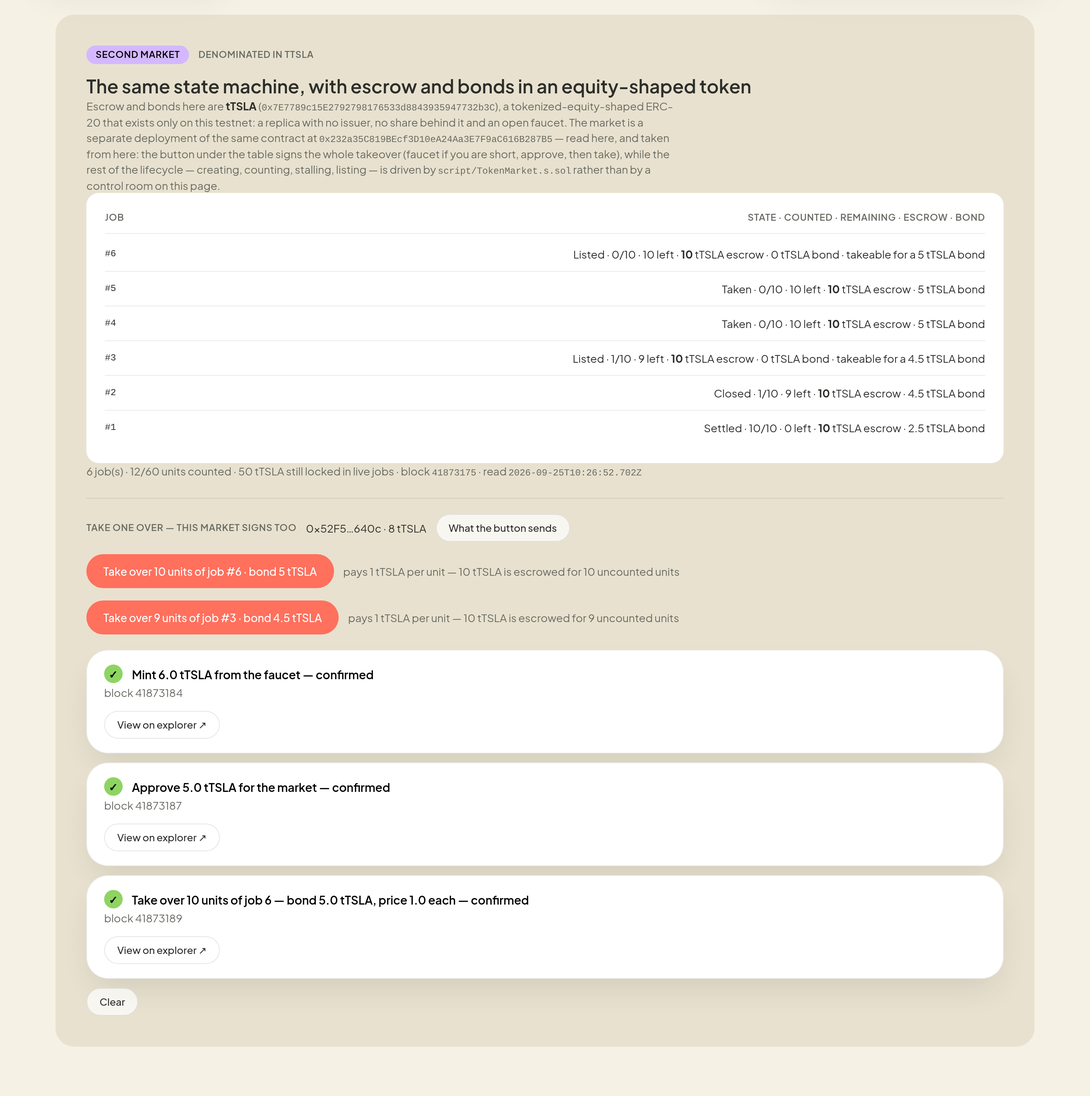
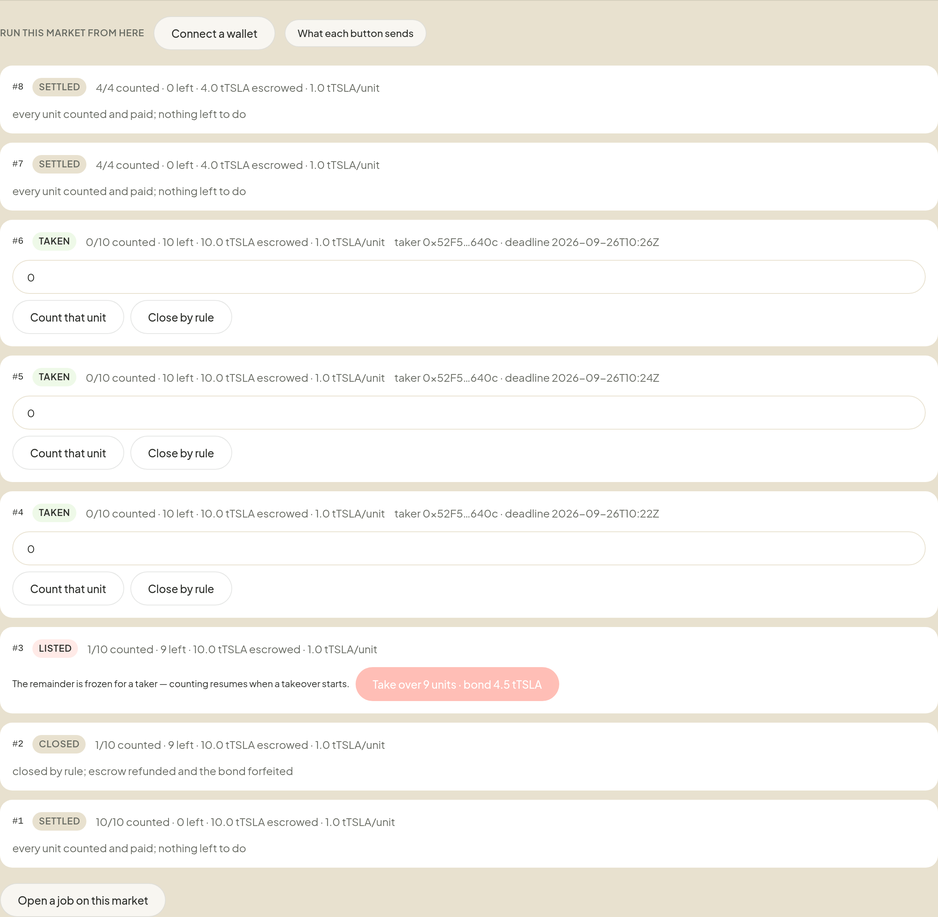
feat(second-market): the whole lifecycle from the page, and every row re-derived
The console for an ERC-20 market no longer stops at the takeover. Open a
job, count a unit against its receipt, declare the stall, list the
remainder, take it over, close one that failed, claim what you are owed —
all of it signed from the page, each call showing its block. Two jobs were
taken from open to settled and claimed that way, and their fourteen hashes
were recovered from the chain (blocks scanned, filtered to the wallet,
ordered by nonce) rather than copied out of a run log.

Four defects the page-drive found, each one a thing a visitor would have
hit:

- the console's log was erased by the server refresh a write triggers, so
  the record of the transaction that caused the refresh disappeared; it now
  lives per market in sessionStorage
- counting was offered on jobs the contract refuses in that state; the
  control now matches the contract exactly (executor while Open, taker once
  Taken) and says in words why it is absent elsewhere
- a read can answer from before the transaction it just confirmed, leaving
  a button the market has moved past; the board is re-read twice after a
  write
- a refusal with no node reason was shown as a parser's complaint; it now
  says what is certain and points at the board

Docs follow the chain, not the previous draft: eight jobs, five takeovers,
two settled and claimed from the page, verify_token.py 45/45, receipts 89
hashes (the fourteen new ones tabulated), and both venue screenshots
re-shot from production.

diff --git a/app/lib/token-venue.js b/app/lib/token-venue.js
@@ -54,18 +54,50 @@ export function useMarketVenue(market) {
   const [asset, setAsset] = useState(null); // { symbol, decimals, balance, allowance }
   const [credits, setCredits] = useState(0n); // what this wallet can claim from this market
   const [busy, setBusy] = useState("");
-  const [steps, setSteps] = useState([]); // the inline lifecycle, in order
+  /* The inline lifecycle. Kept in sessionStorage because a confirmed write refreshes the
+     server-rendered table, and a refresh must not erase the record of what was just signed —
+     the visitor would lose the block numbers they need to check the very transaction that
+     caused the refresh. */
+  const STORE = key ? `spectral.steps.${key}` : "";
+  const [steps, setSteps] = useState([]);
   const nextId = useRef(1);
+
+  useEffect(() => {
+    if (!STORE || typeof window === "undefined") return;
+    try {
+      const saved = JSON.parse(window.sessionStorage.getItem(STORE) || "[]");
+      if (Array.isArray(saved) && saved.length) {
+        setSteps(saved);
+        nextId.current = saved.reduce((a, s) => Math.max(a, s.id || 0), 0) + 1;
+      }
+    } catch { /* a corrupt log is not worth an error banner: start empty */ }
+  }, [STORE]);
+
+  const persist = useCallback((list) => {
+    if (!STORE || typeof window === "undefined") return;
+    try { window.sessionStorage.setItem(STORE, JSON.stringify(list.slice(-25))); } catch { /* full or disabled */ }
+  }, [STORE]);
 
   const step = useCallback((s) => {
     const id = nextId.current++;
-    setSteps((list) => [...list, { id, ...s }]);
+    setSteps((list) => {
+      const next = [...list, { id, ...s }];
+      persist(next);
+      return next;
+    });
     return id;
-  }, []);
+  }, [persist]);
   const patchStep = useCallback((id, p) => {
-    setSteps((list) => list.map((s) => (s.id === id ? { ...s, ...p } : s)));
-  }, []);
-  const clearSteps = useCallback(() => setSteps([]), []);
+    setSteps((list) => {
+      const next = list.map((s) => (s.id === id ? { ...s, ...p } : s));
+      persist(next);
+      return next;
+    });
+  }, [persist]);
+  const clearSteps = useCallback(() => {
+    setSteps([]);
+    if (STORE && typeof window !== "undefined") window.sessionStorage.removeItem(STORE);
+  }, [STORE]);
 
   useEffect(() => {
     fetch("/api/config", { cache: "no-store" })
@@ -198,10 +230,16 @@ export function useMarketVenue(market) {
       patchStep(id, { kind: "ok", label: `${label} — confirmed`, detail: `block ${rc.blockNumber}`, hash: rc.hash });
       return true;
     } catch (e) {
+      const raw = e?.shortMessage || e?.reason || e?.message || String(e);
+      /* Some node answers arrive without a decodable reason. Rather than show the visitor a
+         parser's complaint, say what is certainly true and point at the state that explains it. */
+      const opaque = /missing revert data|invalid BigNumberish|could not decode result data|unknown custom error/i.test(raw);
       patchStep(id, {
         kind: "fail",
         label: `${label} — refused`,
-        detail: e?.shortMessage || e?.reason || e?.message || String(e),
+        detail: opaque
+          ? "the market refused this call and the node returned no reason; the board above shows the job's current state, which is usually why"
+          : raw,
       });
       return false;
     } finally {
@@ -211,6 +249,10 @@ export function useMarketVenue(market) {
       /* The table above the console is server-rendered, so a confirmed write has to ask the
          server for the route again or the row would still read "Listed" after it was taken. */
       router.refresh();
+      /* A node can answer a read from just before the transaction it just confirmed, which would
+         leave a button offering a call the market has already moved past. Reading again a beat
+         later costs nothing and closes that window. */
+      for (const ms of [1500, 4000]) setTimeout(() => { loadBoard(); router.refresh(); }, ms);
     }
   }
 

diff --git a/app/components/TokenConsole.jsx b/app/components/TokenConsole.jsx
@@ -91,7 +91,7 @@ export default function TokenConsole({ market }) {
         {jobs.map((j) => {
           const past = j.state === "Taken" && j.takerDeadline > 0 && nowSec > j.takerDeadline;
           return (
-            <div key={j.id} className="rounded-2xl bg-paper-white p-4">
+            <div key={j.id} data-job={j.id} data-state={j.state} className="rounded-2xl bg-paper-white p-4">
               <div className="flex flex-wrap items-center gap-3">
                 <span className="font-mono text-xs text-ink-charcoal">#{j.id}</span>
                 <span className={`label-caps px-2 py-1 rounded-full ${stateTone[j.state] || "bg-paper-sand"}`}>{j.state}</span>
@@ -107,7 +107,10 @@ export default function TokenConsole({ market }) {
               </div>
 
               <div className="mt-3 flex flex-wrap items-center gap-2">
-                {(j.state === "Open" || j.state === "Stalled") && (
+                {/* Counting is allowed exactly where the contract allows it: the executor while
+                    the job is Open, the taker once it is Taken. Offering it on a stalled or
+                    listed job would be offering a call the market refuses. */}
+                {(j.state === "Open" || j.state === "Taken") && (
                   <>
                     <input
                       className="pc-input small w-[84px]"
@@ -119,6 +122,11 @@ export default function TokenConsole({ market }) {
                       Count that unit
                     </button>
                   </>
+                )}
+                {(j.state === "Stalled" || j.state === "Listed") && (
+                  <span className="text-xs text-ink-charcoal">
+                    The remainder is frozen for a taker — counting resumes when a takeover starts.
+                  </span>
                 )}
                 {j.state === "Open" && (
                   <button className="pc-pill ghost" disabled={!!v.busy} onClick={() => v.declareStalled(j)}>

diff --git a/README.md b/README.md
@@ -42,9 +42,9 @@ There is no `PARTIALLY_DONE_WITH_WARNINGS`. Either the executor counted the unit
 | Seven invalid actions | **REFUSED by the deployed bytecode** | `UnitAlreadyCounted`, `EmptyReceipt`, `UnitOutOfRange`, `NotExecutor`, `NothingToTake`, `AlreadyStalled`, and an arithmetic panic — each with the contract's own reason, in [docs/LIVE-GATES.md](docs/LIVE-GATES.md) |
 | Venue application | **LIVE** | landing at `/`, venue at `/app`; reads six jobs and 21 of 42 counted units off the contract in a browser, anonymous, 0px overflow |
 | Board API, keyless | **LIVE** | `GET /api/board` returns the same six jobs, 21/42 units and 0.01 OKB still locked, read from the contract at request time; `?job=` and `?state=` filter it, `?market=token` reads the second market |
-| Token-denominated market, testnet 1952 | **LIVE** | `0x232a35C819BEcf3D10eA24Aa3E7F9aC616B287B5`, escrow and bonds in `tTSLA`; six jobs and four takeovers on it — one **signed from the venue page** by a wallet holding none of the token — `verify_token.py` **35/35**, receipts and hashes in [docs/TOKEN-MARKET.md](docs/TOKEN-MARKET.md) |
+| Token-denominated market, testnet 1952 | **LIVE** | `0x232a35C819BEcf3D10eA24Aa3E7F9aC616B287B5`, escrow and bonds in `tTSLA`; **eight jobs and five takeovers** on it, every takeover signed from the venue page — one of them by a wallet that held none of the token when it started — and two jobs carried all the way to **settlement and claim** the same way; `verify_token.py` **45/45**, receipts and hashes in [docs/TOKEN-MARKET.md](docs/TOKEN-MARKET.md) |
 | The equity-shaped token it escrows | **LIVE, and a replica** | `0x7E7789c15E2792798176533d8843935947732b3C` — a real ERC-20 deployed on this testnet, open faucet, no issuer and no share behind it; the app calls it a replica everywhere it appears |
-| Two live listings, one per market | **LISTED, takeable by anyone** | native job #6: 10 units at 0.001 OKB, **0.005 OKB bond**, deadline 2026-09-26 10:04 UTC · token job #3: 9 units remaining at 1 tTSLA, **4.5 tTSLA bond**, deadline 2026-09-26 10:05 UTC. `?state=Listed` on either board returns them. Neither listing itself has been taken yet — four other takeovers have been, three of them signed from the page — and taking one is what [Take a live obligation yourself](#take-a-live-obligation-yourself) is for |
+| Two live listings, one per market | **LISTED, takeable by anyone** | native job #6: 10 units at 0.001 OKB, **0.005 OKB bond**, deadline 2026-09-26 10:04 UTC · token job #3: 9 units remaining at 1 tTSLA, **4.5 tTSLA bond**, deadline 2026-09-26 10:05 UTC. `?state=Listed` on either board returns them. Neither listing itself has been taken yet — five other takeovers have been, every one signed from the page — and taking one is what [Take a live obligation yourself](#take-a-live-obligation-yourself) is for |
 | Source verification | **DONE — 3/3 on Sourcify** | all three deployed contracts rebuilt from `src/` and matched: `Spectral` `match` (ID 52236721), `SpectralToken` `exact_match` (ID 52236800), `TestnetEquity` `exact_match` (ID 52236822). `verify_source.py` re-checks it keylessly; [docs/SOURCE-VERIFICATION.md](docs/SOURCE-VERIFICATION.md) has the levels and commands |
 | Source verification on OKX's explorer | **NOT ATTEMPTED** | that route is gated behind a paid plan and no such credential exists here; the explorer shows the contracts unverified. Stated rather than left to be discovered — the rebuild above is the evidence |
 | Someone outside this build taking over an obligation | **NOT YET** | stated plainly in the [honesty table](#whats-real-vs-pending--the-honesty-table) rather than implied |
@@ -97,29 +97,32 @@ The state machine is identical — the same counting, the same single-count-per-
 | taking an obligation | payable bond | `takeObligation(jobId, bondAmount)` |
 | the asset | the chain's native coin | fixed at deployment, `immutable` — it can never be repointed |
 
-**Six jobs have been run on the live testnet in this token** — 53 real transactions, four wallets, green end to end — and the listing that is open right now can be taken **from the page**, not only from a shell:
+**Eight jobs have been run on the live testnet in this token** — and **twenty-two of those transactions were signed by one wallet clicking buttons on the venue page**, not by a script. The listing that is open right now can be taken the same way:
 
 - **Job 1** — 10 tTSLA escrowed. The executor counted 5 units and stalled. A different wallet took the remainder for the 2.5 tTSLA bond the contract asked for, finished the five remaining units, and it settled by arithmetic: 5 tTSLA to the executor, 5 tTSLA plus the returned bond to the taker.
 - **Job 2** — the taker bought a nine-unit remainder for a 4.5 tTSLA bond and finished nothing. After the deadline the close moved the money by rule: 1 tTSLA to the executor for the unit it counted, 9 tTSLA of unearned escrow back to the buyer, and the 4.5 tTSLA bond forfeited to that same buyer. The market held 14.5 tTSLA before and 0 after.
-- **Jobs 3 to 6** — listing and takeover under load. Job 3 is the one **still listed**, nine units takeable for a 4.5 tTSLA bond. Jobs 4, 5 and 6 were each taken by a wallet that had **never held the token**: it minted the shortfall from the replica's open faucet, approved the market for the bond, and took the listing — three contracts calls each, signed from the venue page itself, twice against a local build and once against the production URL. Those nine transactions are in [docs/TOKEN-MARKET.md](docs/TOKEN-MARKET.md) with their blocks, and the panel below re-reads itself when one lands.
+- **Jobs 3 to 6** — listing and takeover under load. Job 3 is the one **still listed**, nine units takeable for a 4.5 tTSLA bond. Jobs 4, 5 and 6 were each taken by a wallet that had **never held the token**: it minted the shortfall from the replica's open faucet, approved the market for the bond, and took the listing — three contract calls each, signed from the venue page itself, twice against a local build and once against the production URL.
+- **Jobs 7 and 8** — the whole lifecycle from the page. One job was opened from the console, counted, stalled, listed, taken, counted out, settled and **claimed**; the other went the same way in a single run. Fourteen transactions, every one signed by the page and every hash recovered back **from the chain** rather than from the run's own log, which is what [docs/TOKEN-MARKET.md](docs/TOKEN-MARKET.md) tabulates with their blocks.
 
 ```bash
 $ RPC_URL=https://testrpc.xlayer.tech/terigon \
   VENUE=0x232a35C819BEcf3D10eA24Aa3E7F9aC616B287B5 python3 verify_token.py
-no JOBS given: reading all 6 job(s) the contract holds
+no JOBS given: reading all 8 job(s) the contract holds
 
   [PASS] the market holds exactly what it owes, in the asset it names —
          55000000000000000000 held == 0 credits + 55000000000000000000 in flight,
-         across 5 participant(s) named by the jobs
+         across 6 participant(s) named by the jobs
 
-35/35 verified
+45/45 verified
 ```
 
 No job list: the script asks the contract how many jobs it holds and checks all of them. An explicit `JOBS=...` list still works, and if that list omits jobs the market also holds, the conservation check now says so out loud instead of reporting a failure that isn't one.
 
-`verify_token.py` reads the market and the token it names, keyless: escrow arithmetic per job, counted units never above registered units, the bond never below half the remainder, states inside the six the contract defines, **the market's token balance equal to its credits plus what is still in flight**, no native value held at all (this contract has no payable path), and the token supply a plain faucet mint. Every hash — deploys, four takeovers, the failed close, every claim — is in [docs/TOKEN-MARKET.md](docs/TOKEN-MARKET.md), and [the venue page](https://spectral-venue.vercel.app/app#second-market) renders this market **and signs for it**: the table is server-rendered from the same public reader (so the numbers are in the HTML before any JavaScript runs), and the button under it takes a listed obligation for real — faucet if short, approve, then take, each step confirmed with its block and explorer link.
+`verify_token.py` reads the market and the token it names, keyless: escrow arithmetic per job, counted units never above registered units, the bond never below half the remainder, states inside the six the contract defines, **the market's token balance equal to its credits plus what is still in flight**, no native value held at all (this contract has no payable path), and the token supply a plain faucet mint. Every hash — deploys, five takeovers, the failed close, every claim — is in [docs/TOKEN-MARKET.md](docs/TOKEN-MARKET.md), and [the venue page](https://spectral-venue.vercel.app/app#second-market) renders this market **and runs it**: the table is server-rendered from the same public reader (so the numbers are in the HTML before any JavaScript runs), and the control room under it signs every call of the lifecycle — open a job, count a unit against its receipt, declare the stall, list the remainder, take one over, close one that failed, claim what you are owed — each confirmed with its block and an explorer link.
 
-What this buys, said without inflation: it shows the mechanism is **not tied to native value**. The invariants, the test suite, the fuzz and the verifier are the same because the machine is the same; only the asset moved. What it does not buy is a claim to be trading an equity — the equity is a replica with no issuer and no share behind it, and the app says so on the panel. What the second market does buy is a market with a **second exit**: the takeover is signed from the page against real balances and real allowances, not narrated over a script.
+What this buys, said without inflation: it shows the mechanism is **not tied to native value**. The invariants, the test suite, the fuzz and the verifier are the same because the machine is the same; only the asset moved. What it does not buy is a claim to be trading an equity — the equity is a replica with no issuer and no share behind it, and the app says so on the panel. What the second market does buy is a market with a **second exit and a second control room**: every call of its lifecycle — open a job, count a unit against its receipt, declare the stall, list the remainder, take it over, close one that failed, claim what you are owed — is signed from the page against real balances and real allowances, and each one shows the block it landed in. The scripts still drive the same calls for scripted runs; the page is what a visitor uses.
+
+Adding a third market of the same shape is configuration, not code: `lib/market-config.js` reads the markets this deployment serves out of the environment, and every amount on screen is formatted with the **asset's own decimals**, read from the token — which is what a six-decimal testnet dollar needs and an eighteen-decimal replica does not.
 
 ## ▶ Demo
 
@@ -251,26 +254,32 @@ Real captures of the deployed venue at 2×, not mockups. Each caption is read of
 
 ![The obligations as they stand](demo/media/venue-board.png)
 
-**The second market, in the HTML before any JavaScript runs — and signable under it.** The same
+**The second market, in the HTML before any JavaScript runs — and runnable under it.** The same
 machine deployed a second time with escrow and bonds in `tTSLA`, read on the server every five
-seconds, so these numbers are the page's own markup and not a spinner. Six jobs now: three taken
-(#4, #5, #6), one **listed and takeable** (#3, nine units, 4.5 tTSLA bond), one closed, one
-settled. The row under the table is the part that makes it a market rather than a report — a
-connected wallet can take that listing from here. Footer: `6 job(s) · 12/60 units counted · 55
-tTSLA still locked in live jobs`, block `41873191`. Its own anchor:
+seconds, so these numbers are the page's own markup and not a spinner. Eight jobs now: two carried
+from open to **settled and claimed** (#7, #8), three taken (#4, #5, #6), one **listed and
+takeable** (#3, nine units, 4.5 tTSLA bond), one closed, one settled. Under the table is the part
+that makes it a market rather than a report: the console that signs every call of the lifecycle
+from the page. Footer: `8 job(s) · 20 / 68 units counted · 55 tTSLA still locked in live jobs`,
+block `41878575`. Its own anchor:
 [spectral-venue.vercel.app/app#second-market](https://spectral-venue.vercel.app/app#second-market).
+
+**The second market, and the control room under the table.** The section as it renders: the table
+above, then connect a wallet and open a job, count a unit against its receipt, declare the stall,
+list the remainder, take one over, close one that failed, claim what you are owed — each one a
+signed transaction whose block appears beneath it.
 
 ![The second market, escrowing an equity-shaped token](demo/media/venue-token-market.png)
 
-**A takeover signed from the page, by a wallet that held none of the token.** This is the same
-panel on the production URL with a wallet connected — `0x52F5…640c`, deployed for the test with
-OKB and **zero tTSLA** — after one press of *Take over 10 units of job #6*. Three calls, each
-awaited and each shown with its block: the faucet mint for the shortfall, the approval the market
-needs before it can pull the bond, then the takeover itself. The table above it read `Taken` by
-the time the third one landed. Blocks `41873184`, `41873187`, `41873189`; the hashes are in
+**What each button offers is what the contract allows.** A `Taken` job offers its taker the count
+and the close by rule, with the taker's deadline in the row; a `Listed` job offers the takeover
+with the bond already priced into the label; a job whose remainder is frozen says so in words
+instead of offering a call the market would refuse. Two of the jobs above were taken from `Open`
+to `Settled` and claimed by pressing these buttons — fourteen transactions, every hash recovered
+back from the chain rather than from a run log, tabulated with their blocks in
 [docs/TOKEN-MARKET.md](docs/TOKEN-MARKET.md).
 
-![Taking a listing from the page](demo/media/venue-token-take.png)
+![The control room for the second market](demo/media/venue-token-take.png)
 
 **The rule, stated as two parties and one bond.** The executor is paid for what it counted; the taker is paid for the remainder and posts at least half of it again as a bond, which moves to the buyer if the taker's deadline passes with units still uncounted.
 
@@ -325,7 +334,7 @@ A Solidity contract with no privileged role anywhere in it, plus the artifacts t
 - **`src/Spectral.sol`** — 194 lines, Solidity 0.8.24. Six states, seven events, thirteen named errors, eighteen revert sites, one bond rule. No owner, no pause, no upgrade path, no oracle, no jury. `owner`, `admin`, `oracle` and `jury` appear in the source exactly once each, inside the comment that declares they do not exist.
 - **288 tests, 0 failures** — 235 of them a generated conformance matrix over the whole state machine, 25 hand-written edge and adversarial cases on the native-value market, and 28 more covering the second deployment of the same machine where escrow and bonds are an ERC-20, including a 256-run conservation fuzz and a constructed reentrancy attacker.
 - **`verify.py`** — re-derives the claims from the chain and prints N/N. It trusts nothing in this repository.
-- **Two deployments** — anvil (chain 31337) for the development lifecycle and **X Layer testnet 1952** for the live one, 75 transaction hashes in [docs/RECEIPTS.md](docs/RECEIPTS.md), plus the 31 behind the token market in [docs/TOKEN-MARKET.md](docs/TOKEN-MARKET.md).
+- **Two deployments** — anvil (chain 31337) for the development lifecycle and **X Layer testnet 1952** for the live one, 89 transaction hashes in [docs/RECEIPTS.md](docs/RECEIPTS.md) — the last fourteen of them signed by the page — plus the 31 behind the token market in [docs/TOKEN-MARKET.md](docs/TOKEN-MARKET.md).
 - **A venue application** — Next.js 16, a landing page at `/` and the working venue at `/app`, both reading the deployed contract. Chain values are served at runtime, so no chain id, RPC, or address is baked into the client.
 - **`script/SingleWalletRun.s.sol`** — one wallet walking the whole lifecycle, on the record.
 - **`demo/CLICKS.md`** — the clicks-and-narration script for the walkthrough, website only.
@@ -431,10 +440,10 @@ The point of this project is mechanical proof, so the same standard applies to t
 | The recorded walkthrough | **Real — recorded and published** | [▶ the demo](https://youtu.be/EK-t91r63Fw), 2:15, a single take of the deployed venue driven with a real wallet; the two transactions it creates are in [docs/RECEIPTS.md](docs/RECEIPTS.md), and the narration and its cut list are in `demo/NARRATION.md` |
 | The deployed bytecode is the source in this repository | **Real — 3/3 rebuilt and matched** | Sourcify, free and keyless on chain 1952: `Spectral` `match` (ID 52236721), `SpectralToken` `exact_match` (ID 52236800), `TestnetEquity` `exact_match` (ID 52236822). Re-checked by `verify_source.py`; levels and commands in [docs/SOURCE-VERIFICATION.md](docs/SOURCE-VERIFICATION.md) |
 | Source verification on OKX's explorer | **Not attempted, not claimed** | that route is gated behind a paid plan and the credential is not obtainable; the explorer shows the contracts unverified. The rebuild above is the evidence, and this row exists so no badge implies otherwise |
-| A takeover by someone outside this build | **Not yet — but two are listed and takeable now, by anyone** | native job #6 (0.005 OKB bond) and token job #3 (4.5 tTSLA bond) are live listings any wallet can take today — from the page for the token market, with the commands in [Take a live obligation yourself](#take-a-live-obligation-yourself) for the native one. The three takeovers that *have* been signed from the page came from a wallet this build generated for the test, holding no token and no key in this repository, which is the closest this project can honestly get to an outside taker on its own |
+| A takeover by someone outside this build | **Not yet — but two are listed and takeable now, by anyone** | native job #6 (0.005 OKB bond) and token job #3 (4.5 tTSLA bond) are live listings any wallet can take today — from the page for the token market, with the commands in [Take a live obligation yourself](#take-a-live-obligation-yourself) for the native one. The five takeovers that *have* been signed from the page came from wallets this build generated for the test, holding no key in this repository, which is the closest this project can honestly get to an outside taker on its own |
 | Mainnet | **Not deployed — scope** | testnet only, deliberately. See [How I'd deploy it](#how-id-deploy-it) |
 | MetaMask's site warning on the hosted URL | **Flagged by their security partner; not yet reported** | MetaMask's own detector clears the host (`eth-phishing-detect` returns `false` for it, and `true` for a known typosquat, so the control passes), which means the verdict comes from the reputation service behind it rather than the list the extension ships. It reads a brand-new free-hosting subdomain that asks to connect a wallet as the drainer pattern, which is what this is. The venue reads every number without a wallet, so nothing in this repository depends on connecting one |
-| ERC-20 escrow | **Built — in a second deployment of the same machine** | `src/SpectralToken.sol` escrows an ERC-20 instead of native value, with the asset `immutable`. Live on testnet 1952 at `0x232a35C819BEcf3D10eA24Aa3E7F9aC616B287B5`, escrowing `tTSLA` (`0x7E7789c15E2792798176533d8843935947732b3C`, a replica deployed here, open faucet). Six jobs, four takeovers — three of them signed from the venue page by a wallet holding none of the token — `verify_token.py` **35/35**, receipts in [docs/TOKEN-MARKET.md](docs/TOKEN-MARKET.md). What remains scope: that market's lifecycle (create, count, stall, list, close) is driven by script, and its asset is a replica rather than an issued equity |
+| ERC-20 escrow | **Built — in a second deployment of the same machine** | `src/SpectralToken.sol` escrows an ERC-20 instead of native value, with the asset `immutable`. Live on testnet 1952 at `0x232a35C819BEcf3D10eA24Aa3E7F9aC616B287B5`, escrowing `tTSLA` (`0x7E7789c15E2792798176533d8843935947732b3C`, a replica deployed here, open faucet). Eight jobs, five takeovers, and two jobs carried through **settlement and claim** — every takeover and every one of the fourteen transactions in that round signed from the venue page — `verify_token.py` **45/45**, receipts in [docs/TOKEN-MARKET.md](docs/TOKEN-MARKET.md). What remains scope: the asset is a replica rather than an issued equity, and this market, like the first, is testnet-only |
 
 ## Attack → test
 
@@ -497,7 +506,7 @@ It is read-only by construction — the endpoint holds no key and there is no ro
 
 A market where only its author has ever taken the other side is a demo. Two obligations are **listed right now**, one in each market, and the bond the contract asks for is public — so the fastest way to check this whole thing is to take one and make the mechanism settle for you.
 
-**The token market's listing can be taken from the page itself**, with no terminal involved: open [spectral-venue.vercel.app/app#second-market](https://spectral-venue.vercel.app/app#second-market), connect a wallet on X Layer testnet, and press *Take over 9 units of job #3*. The contract asks a 4.5 tTSLA bond, the replica has an open faucet so the page mints what you are short of, and the three calls land in order with their blocks shown. That path has been run three times on the live chain, twice against a local build and once against production, by a wallet that held none of the token — [the receipts](docs/TOKEN-MARKET.md) are in the token-market doc.
+**The token market's listing can be taken from the page itself**, with no terminal involved: open [spectral-venue.vercel.app/app#second-market](https://spectral-venue.vercel.app/app#second-market), connect a wallet on X Layer testnet, and press *Take over 9 units of job #3*. The contract asks a 4.5 tTSLA bond, the replica has an open faucet so the page mints what you are short of, and the three calls land in order with their blocks shown. That path has been run five times on the live chain — twice against a local build, three times against production — including a takeover by a wallet that held none of the token, and two jobs then carried through settlement and claim the same way. [The receipts](docs/TOKEN-MARKET.md) are in the token-market doc.
 
 **The native market's listing is one `cast` away**, which is how it was taken over for the walkthrough and the job-5 run in the receipts.
 
@@ -549,7 +558,7 @@ If you take one, that is not a favour to this project — it is the last column 
 - **The buyer funds everything up front.** There is no credit, no instalments, and no outside capital.
 - **No privacy.** Every job, count, and credit is public. That is what makes it verifiable, and it is also a real constraint.
 - **Testnet only.** A public testnet with faucet gas, not mainnet, so nothing here should be pointed at real value.
-- **The token-denominated market's lifecycle is script-driven; its takeover is not.** Create, count, stall, list and close run through `script/TokenMarket.s.sol` and `script/TokenFailClose.s.sol` with keys from the environment — that is what produced jobs 1 to 6. What the page signs is the takeover: take a listed obligation from the venue page with a wallet, in one flow of three confirmed calls. A full control room for the second market is a UI problem, not a contract problem — the contract is the same one, with `transferFrom` in place of `msg.value` — and the page deliberately offers one signed action rather than pretending to another product.
+- **The second market's lifecycle is script-driven *and* page-driven.** Create, count, stall, list, close and claim run two ways: through `script/TokenMarket.s.sol` and `script/TokenFailClose.s.sol` with keys from the environment (that is what produced jobs 1 to 6), and from the venue page's control room for that market, which signs each of the same calls with a wallet and shows its block. The page's console is the second market's own surface, next to its read-only table; the native market's dashboard is the first market's. What neither market claims is a mainnet deployment: this is a testnet venue, per the organiser's ruling.
 - **The equity it escrows is a replica.** `tTSLA` is this project's own ERC-20 on the testnet with an open faucet. It is not an issued asset, it tracks nothing, and it is not obtainable anywhere else. The market is real; the asset is a stand-in, and it is labelled as one everywhere it appears.
 - **The unit is undecided in the general case.** For machine work the executor's own receipt hash is usually enough; for work with an external consumer there is no general answer, and this project states the limit rather than hiding it behind a service.
 
@@ -590,16 +599,17 @@ spectral/
 ├── app/                           Next.js 16: landing at / and the venue at /app
 │   ├── lib/board.mjs              the market's read API as one framework-free function
 │   ├── scripts/board-cli.mjs      the same reader in a terminal (--json for agents)
-│   ├── components/TokenMarket.jsx the second market, read-only and server-rendered, on the venue page
-│   ├── components/TokenActions.jsx  the signed takeover of a token-market listing, from the page
-│   ├── lib/token-venue.js         that flow: faucet if short → approve → take, each awaited
+│   ├── components/TokenMarket.jsx  the ERC-20 markets, read-only and server-rendered
+│   ├── components/TokenConsole.jsx the control room: open, count, stall, list, take, close, claim
+│   ├── lib/market-config.js        which markets this deployment serves, from env
+│   ├── lib/token-venue.js          signing for an ERC-20 market: faucet if short, approve, take
 │   ├── lib/abi-token.json         the ERC-20-escrow market, synced from the build
 │   ├── lib/abi-equity.json        the replica token, synced from the build
 │   └── app/api/board/route.js     GET /api/board — keyless, read-only JSON
 ├── docs/BOARD-API.md              endpoint, field glossary, and the calls to act on it
 ├── docs/TOKEN-MARKET.md           the replica equity, the token market, and its receipts
 ├── docs/SOURCE-VERIFICATION.md    the Sourcify rebuild: levels, match IDs, commands
-├── docs/RECEIPTS.md               75 transaction hashes, testnet and local
+├── docs/RECEIPTS.md               89 transaction hashes, testnet and local
 ├── docs/LIVE-GATES.md             the seven refusals and the money path, on chain
 ├── docs/live-gates-raw.json       the raw revert data, undecoded
 ├── demo/CLICKS.md                 the clicks-and-narration script (website only)
@@ -660,7 +670,7 @@ Nothing below is a screenshot standing in for evidence. Each row is an artifact 
 |---|---|
 | [▶ the demo](https://youtu.be/EK-t91r63Fw) · [`demo/media/spectral-demo.mp4`](demo/media/spectral-demo.mp4) | one take of the deployed venue against testnet, with the two transactions it creates openable |
 | [`docs/LIVE-GATES.md`](docs/LIVE-GATES.md) | the seven refusals evaluated by the deployed bytecode, and the money path of job 3 closed by rule |
-| [`docs/RECEIPTS.md`](docs/RECEIPTS.md) | 75 transaction hashes — 40 public on testnet 1952, 30 local on anvil, plus the five behind the two live listings — each openable, including the eight that make up the single-wallet run |
+| [`docs/RECEIPTS.md`](docs/RECEIPTS.md) | 89 transaction hashes — 54 public on testnet 1952, 30 local on anvil, plus the five behind the two live listings — each openable, including the eight that make up the single-wallet run and the fourteen the page signed |
 | [`docs/live-gates-raw.json`](docs/live-gates-raw.json) | the raw revert data, so the refusals can be re-checked without trusting my decoding |
 | `verify.py` | 26/26 re-derived from the chain, including that the venue holds exactly what it owes |
 | `test/SpectralMatrix.t.sol` + `test/gen_matrix_tests.py` | the conformance matrix and the generator that writes it |

diff --git a/docs/TOKEN-MARKET.md b/docs/TOKEN-MARKET.md
@@ -150,8 +150,8 @@ now**: `requiredBond(3)` reads 4.5 tTSLA and the taker deadline is 2026-09-26 10
 | 4 | listObligation(3, 2026-09-26 10:05 UTC) | [0x5ff03310c082…](https://www.okx.com/web3/explorer/xlayer-test/tx/0x5ff03310c082b5ab250f42297eaf584cb74c153f7a25a2ce44cfe83bac54ebdd) |
 
 `verify_token.py` includes it: the third job's bond is checked against the half-of-remainder rule
-exactly as the settled and closed ones are, which is why the same command prints 35/35 over all
-six jobs. Whoever takes it gets 9 tTSLA of escrow if they finish the nine units, and forfeits the
+exactly as the settled and closed ones are, which is why the same command prints 45/45 over all
+eight jobs. Whoever takes it gets 9 tTSLA of escrow if they finish the nine units, and forfeits the
 4.5 tTSLA bond to the buyer if they do not.
 
 ## Taking a listing from the page — signed in the app, not typed into a terminal
@@ -193,15 +193,58 @@ the buyer and executor of this market:
 
 What the app can and cannot do with this market, stated exactly:
 
-- **can**: read it without a wallet, and sign a takeover of any listed obligation — mint if short,
-  approve, take — with each step's confirmation and explorer link shown, and the table above the
-  button re-read on the server so the row stops saying `Listed` the moment it is taken.
-- **cannot**: create, count, stall, list or close from the page. Those are
-  `script/TokenMarket.s.sol` and the scripts under `script/`, because one signed action is the
-  honest surface for a market whose entire lifecycle is already proven in tests; a control room
-  would be interface, not capability.
+- **can**: read it without a wallet, and run the whole lifecycle from the page — open a job, count
+  a unit against its receipt, declare the stall, list the remainder, take it over (approving the
+  bond inline), close one that failed, and claim what you are owed. Every call is signed with the
+  wallet's own key, and every step shows its hash, its block and an explorer link.
+- **cannot**: show you a mainnet deployment. This is a testnet venue, per the organiser's ruling.
+- **cannot**: let you count a unit the market will refuse. The console offers counting exactly
+  where the contract allows it — the executor while a job is `Open`, the taker once it is `Taken`
+  — and says in words why the button is absent on a `Stalled` or `Listed` job instead of offering
+  a call that reverts.
 
-One more thing the test caught: on the first run the table above the button still read `Listed`
-after a successful take, because that table is server-rendered and nothing asked the server again.
-The client now refreshes the route on a confirmed write, and the second run showed `Taken` in
-place. It is the kind of bug only a real signed transaction in a real browser finds.
+### The lifecycle, signed from the page
+
+Two jobs were taken from `Open` to `Settled` and claimed by clicking buttons on the venue page,
+with no shell involved. The hashes below were recovered from the chain (blocks scanned 41877580
+onward, filtered to the one wallet and ordered by nonce), not copied from the run's own log.
+
+| nonce | call | block | transaction |
+|---|---|---|---|
+| 8 | `approve` escrow | 41877604 | [`0x17425334…`](https://www.okx.com/web3/explorer/xlayer-test/tx/0x17425334dc6ccc37d208b8d5bc1cad0e0179689af26f14dd3a4a32064f60b8ea) |
+| 9 | `createJob` (job 8) | 41877606 | [`0xbfd10cb9…`](https://www.okx.com/web3/explorer/xlayer-test/tx/0xbfd10cb96b9aed3307af216c61d3c3abe94c3f515cd68833eee6f6108c1ff65f) |
+| 10 | `approve` escrow | 41877609 | [`0x4e78eb97…`](https://www.okx.com/web3/explorer/xlayer-test/tx/0x4e78eb97e9f35020aedb3e39153b77455deab9c19e9048db8703d9e22d3e22a5) |
+| 11 | `countUnit` (job 7) | 41877635 | [`0x1ddbfd29…`](https://www.okx.com/web3/explorer/xlayer-test/tx/0x1ddbfd29a93453aae543e430e074244f4601f40f8216c949a33789fb1b747057) |
+| 12 | `countUnit` (job 7) | 41877642 | [`0xc98eac59…`](https://www.okx.com/web3/explorer/xlayer-test/tx/0xc98eac59c3a7b5d6135abe94c7f9f7db3bd23ee157d06b149356bbd5a0fe7fba) |
+| 13 | `claim()` (job 7) | 41877652 | [`0x6c1bf4e1…`](https://www.okx.com/web3/explorer/xlayer-test/tx/0x6c1bf4e198a4bc8dcd91db4c178666bed18e82b9849b84a1648088c4e0c27b97) |
+| 14 | `countUnit` (job 8) | 41877700 | [`0x1e71dd9f…`](https://www.okx.com/web3/explorer/xlayer-test/tx/0x1e71dd9fec67f7587d2e1327d8e175135102dfe6b33bab7f688c563b3f701212) |
+| 15 | `declareStalled` (job 8) | 41877708 | [`0x4743ebfc…`](https://www.okx.com/web3/explorer/xlayer-test/tx/0x4743ebfc070bc3b9b69a258f729b02780aa91a7fedaa38f5901cb17c00d9f155) |
+| 16 | `listObligation` (job 8) | 41877722 | [`0x7cca3deb…`](https://www.okx.com/web3/explorer/xlayer-test/tx/0x7cca3deb45d93c76a3c305a0472574c1369ea2b94912737daab19a05d28b62f0) |
+| 17 | `takeObligation` (job 8) | 41877849 | [`0x3457fe1f…`](https://www.okx.com/web3/explorer/xlayer-test/tx/0x3457fe1f57ff28eab47a3bf7409d263c66b5f3b5ebe64239622dfe134efa5709) |
+| 18 | `countUnit` (job 8, as taker) | 41877908 | [`0x4d905557…`](https://www.okx.com/web3/explorer/xlayer-test/tx/0x4d905557309e0ce84f983a7a4023aa24d3d1cfe8ff9d1eaea7aae04e8bcf32ba) |
+| 19 | `countUnit` (job 8, as taker) | 41877925 | [`0x546e6a47…`](https://www.okx.com/web3/explorer/xlayer-test/tx/0x546e6a4714340350447a911c4c18f8d6a0cd3a74d61af6f3734a155827bb2f26) |
+| 20 | `countUnit` (job 8, the one that settles it) | 41877942 | [`0xee8268c3…`](https://www.okx.com/web3/explorer/xlayer-test/tx/0xee8268c3cdac483677f1dac35a2f5fbe5293a7007fd65d217c572cfe0a355e3c) |
+| 21 | `claim()` (job 8) | 41877957 | [`0x947f60ed…`](https://www.okx.com/web3/explorer/xlayer-test/tx/0x947f60ed989b9fae62d5668bc4d6f2b9f05457e86aed4190a89e9b909ee12341) |
+
+Both jobs read back as `Settled` with 4 of 4 units counted. Job 8 is the honest demonstration: one
+job, one wallet, opened, stalled, listed, taken and claimed by a person clicking.
+
+Four things the page-drive found, each a bug only a real signed transaction in a real browser
+surfaces:
+
+- **The log vanished after every write.** A confirmed call refreshes the server-rendered table, and
+  that refresh took the record of what was just signed with it — the visitor lost the block number
+  of the transaction that caused the refresh. The console now keeps its log per market in
+  `sessionStorage`, so it survives the refresh it triggers.
+- **A button the market refuses.** Counting was offered on `Stalled` and `Listed` jobs. The
+  contract allows it only while `Open` (executor) or `Taken` (taker), so the page was offering a
+  reverting call. The control now appears exactly where the contract allows it, and elsewhere
+  states why.
+- **A node one beat behind.** A read can answer from just before the transaction it just confirmed,
+  leaving a button that no longer applies. The board is re-read twice after a confirmed write.
+- **A refusal with no reason.** Some nodes return an error with no decodable reason, which the page
+  was showing as a parser's complaint. It now says what is certainly true and points at the board,
+  which is usually the explanation.
+
+The table above the console reads on the server, so a scrape, a screenshot tool and a browser with
+JavaScript off all see this market's numbers; the console is the signed layer on top of it.

diff --git a/docs/RECEIPTS.md b/docs/RECEIPTS.md
@@ -156,3 +156,30 @@ itself. `requiredBond(3)` reads 4.5 tTSLA. Taker deadline 2026-09-26 10:05 UTC.
 
 Both are still listed at the time of writing, with nothing taken: the bond, the escrow and the
 remainder on each one are readable through `GET /api/board?state=Listed` at any moment.
+
+## The page-driven run — 2026-09-25, two jobs end to end (PUBLIC)
+
+Fourteen transactions, every one signed by a browser clicking buttons on the venue page rather
+than by a script. They were recovered from the chain — blocks 41877580 onward, filtered to the one
+wallet and ordered by nonce — instead of being copied out of the run's own log, so the table is
+what the chain says rather than what the tool claimed.
+
+| nonce | call | block | transaction |
+|---|---|---|---|
+| 8 | `approve` escrow | 41877604 | [0x17425334dc6c…](https://www.okx.com/web3/explorer/xlayer-test/tx/0x17425334dc6ccc37d208b8d5bc1cad0e0179689af26f14dd3a4a32064f60b8ea) |
+| 9 | `createJob` (job 8) | 41877606 | [0xbfd10cb96b9a…](https://www.okx.com/web3/explorer/xlayer-test/tx/0xbfd10cb96b9aed3307af216c61d3c3abe94c3f515cd68833eee6f6108c1ff65f) |
+| 10 | `approve` escrow | 41877609 | [0x4e78eb97e9f3…](https://www.okx.com/web3/explorer/xlayer-test/tx/0x4e78eb97e9f35020aedb3e39153b77455deab9c19e9048db8703d9e22d3e22a5) |
+| 11 | `countUnit` (job 7) | 41877635 | [0x1ddbfd29a934…](https://www.okx.com/web3/explorer/xlayer-test/tx/0x1ddbfd29a93453aae543e430e074244f4601f40f8216c949a33789fb1b747057) |
+| 12 | `countUnit` (job 7) | 41877642 | [0xc98eac59c3a7…](https://www.okx.com/web3/explorer/xlayer-test/tx/0xc98eac59c3a7b5d6135abe94c7f9f7db3bd23ee157d06b149356bbd5a0fe7fba) |
+| 13 | `claim()` (job 7) | 41877652 | [0x6c1bf4e198a4…](https://www.okx.com/web3/explorer/xlayer-test/tx/0x6c1bf4e198a4bc8dcd91db4c178666bed18e82b9849b84a1648088c4e0c27b97) |
+| 14 | `countUnit` (job 8) | 41877700 | [0x1e71dd9fec67…](https://www.okx.com/web3/explorer/xlayer-test/tx/0x1e71dd9fec67f7587d2e1327d8e175135102dfe6b33bab7f688c563b3f701212) |
+| 15 | `declareStalled` (job 8) | 41877708 | [0x4743ebfc070b…](https://www.okx.com/web3/explorer/xlayer-test/tx/0x4743ebfc070bc3b9b69a258f729b02780aa91a7fedaa38f5901cb17c00d9f155) |
+| 16 | `listObligation` (job 8) | 41877722 | [0x7cca3deb45d9…](https://www.okx.com/web3/explorer/xlayer-test/tx/0x7cca3deb45d93c76a3c305a0472574c1369ea2b94912737daab19a05d28b62f0) |
+| 17 | `takeObligation` (job 8) | 41877849 | [0x3457fe1f57ff…](https://www.okx.com/web3/explorer/xlayer-test/tx/0x3457fe1f57ff28eab47a3bf7409d263c66b5f3b5ebe64239622dfe134efa5709) |
+| 18 | `countUnit` (job 8, as taker) | 41877908 | [0x4d905557309e…](https://www.okx.com/web3/explorer/xlayer-test/tx/0x4d905557309e0ce84f983a7a4023aa24d3d1cfe8ff9d1eaea7aae04e8bcf32ba) |
+| 19 | `countUnit` (job 8, as taker) | 41877925 | [0x546e6a471434…](https://www.okx.com/web3/explorer/xlayer-test/tx/0x546e6a4714340350447a911c4c18f8d6a0cd3a74d61af6f3734a155827bb2f26) |
+| 20 | `countUnit` (job 8, the one that settles it) | 41877942 | [0xee8268c3cdac…](https://www.okx.com/web3/explorer/xlayer-test/tx/0xee8268c3cdac483677f1dac35a2f5fbe5293a7007fd65d217c572cfe0a355e3c) |
+| 21 | `claim()` (job 8) | 41877957 | [0x947f60ed989b…](https://www.okx.com/web3/explorer/xlayer-test/tx/0x947f60ed989b9fae62d5668bc4d6f2b9f05457e86aed4190a89e9b909ee12341) |
+
+Both jobs read back as `Settled` with 4 of 4 units counted, which `verify_token.py` re-derives
+without being told: **45/45** across all eight jobs the market holds.
